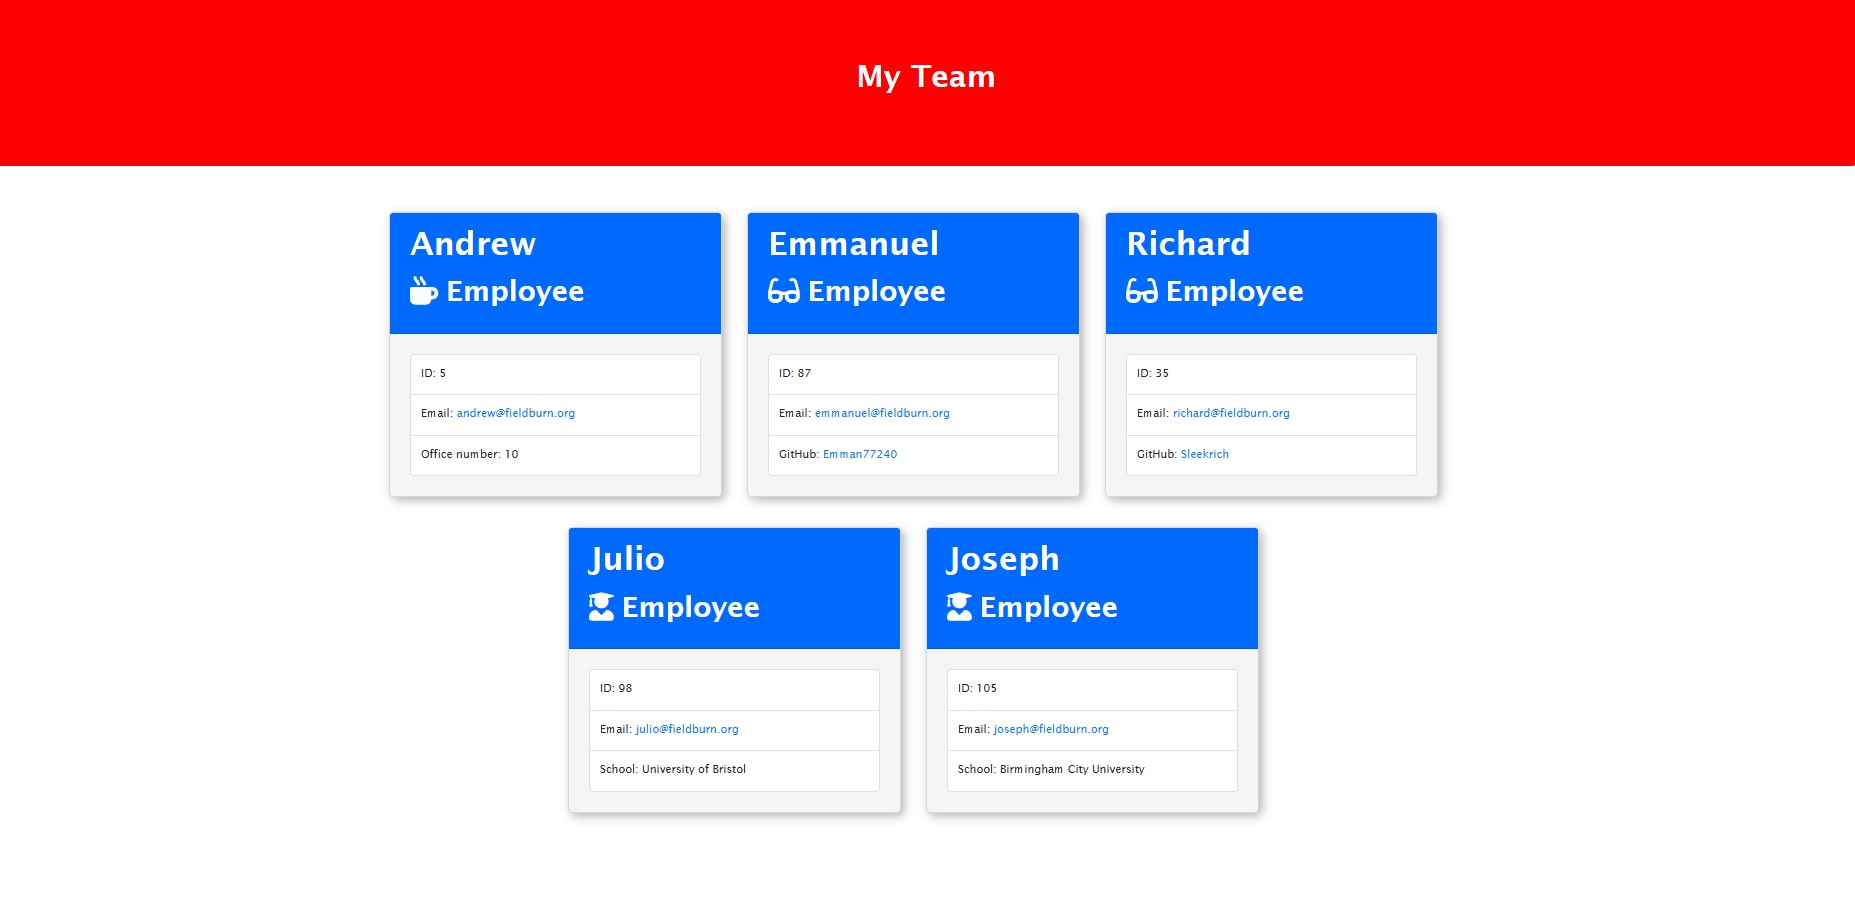
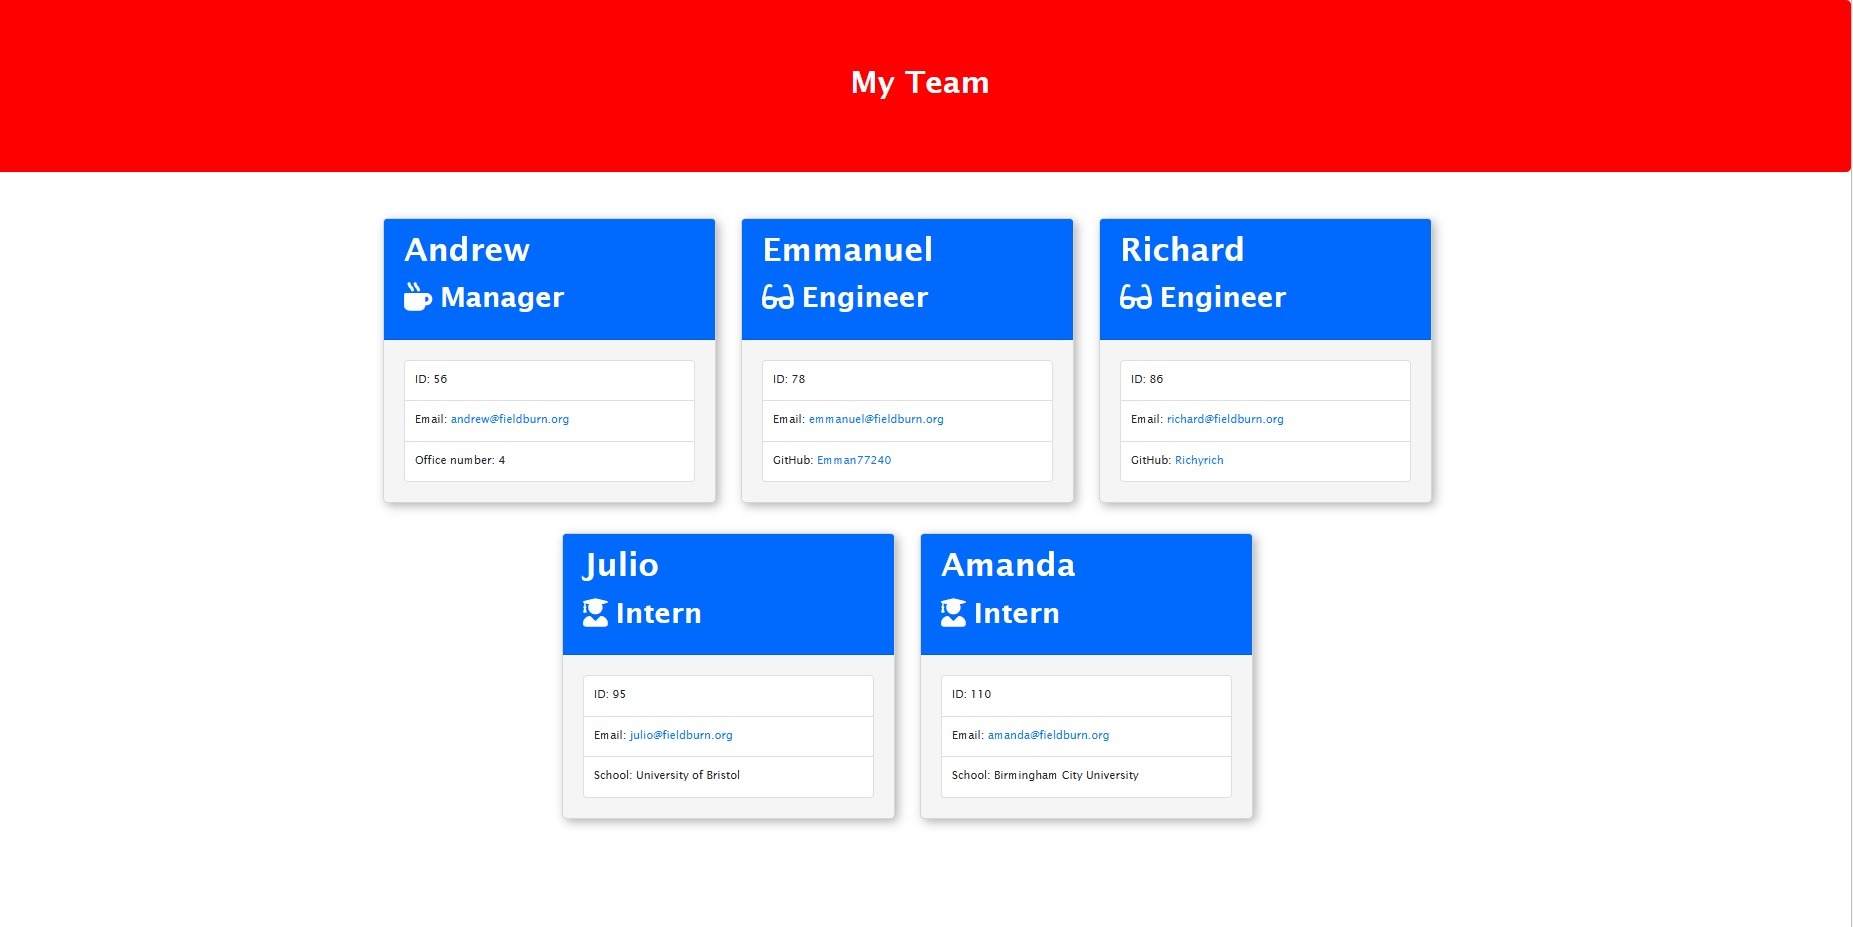
Fixed minor bugs

diff --git a/output/team.html b/output/team.html
@@ -28,13 +28,13 @@
         <div class="card employee-card">
         <div class="card-header">
             <h2 class="card-title">Andrew</h2>
-            <h3 class="card-title"><i class="fas fa-mug-hot mr-2"></i>Employee</h3>
+            <h3 class="card-title"><i class="fas fa-mug-hot mr-2"></i>Manager</h3>
         </div>
         <div class="card-body">
             <ul class="list-group">
-                <li class="list-group-item" id="ID">ID: 5</li>
+                <li class="list-group-item" id="ID">ID: 56</li>
                 <li class="list-group-item" id="body-email">Email: <a href="mailto:andrew@fieldburn.org">andrew@fieldburn.org</a></li>
-                <li class="list-group-item" id="body-info">Office number: 10</li>
+                <li class="list-group-item" id="body-info">Office number: 4</li>
             </ul>
         </div>
     </div>
@@ -42,11 +42,11 @@
         <div class="card employee-card">
     <div class="card-header">
         <h2 class="card-title">Emmanuel</h2>
-        <h3 class="card-title"><i class="fas fa-glasses mr-2"></i>Employee</h3>
+        <h3 class="card-title"><i class="fas fa-glasses mr-2"></i>Engineer</h3>
     </div>
     <div class="card-body">
         <ul class="list-group">
-            <li class="list-group-item" id="ID">ID: 87</li>
+            <li class="list-group-item" id="ID">ID: 78</li>
             <li class="list-group-item" id="body-email">Email: <a href="mailto:emmanuel@fieldburn.org">emmanuel@fieldburn.org</a></li>
             <li class="list-group-item" id="body-info">GitHub: <a href="https://github.com/Emman77240" target="_blank" rel="noopener noreferrer">Emman77240</a></li>
         </ul>
@@ -56,13 +56,13 @@
         <div class="card employee-card">
     <div class="card-header">
         <h2 class="card-title">Richard</h2>
-        <h3 class="card-title"><i class="fas fa-glasses mr-2"></i>Employee</h3>
+        <h3 class="card-title"><i class="fas fa-glasses mr-2"></i>Engineer</h3>
     </div>
     <div class="card-body">
         <ul class="list-group">
-            <li class="list-group-item" id="ID">ID: 35</li>
+            <li class="list-group-item" id="ID">ID: 86</li>
             <li class="list-group-item" id="body-email">Email: <a href="mailto:richard@fieldburn.org">richard@fieldburn.org</a></li>
-            <li class="list-group-item" id="body-info">GitHub: <a href="https://github.com/Sleekrich" target="_blank" rel="noopener noreferrer">Sleekrich</a></li>
+            <li class="list-group-item" id="body-info">GitHub: <a href="https://github.com/Richyrich" target="_blank" rel="noopener noreferrer">Richyrich</a></li>
         </ul>
     </div>
 </div>
@@ -70,11 +70,11 @@
         <div class="card employee-card">
     <div class="card-header">
         <h2 class="card-title">Julio</h2>
-        <h3 class="card-title"><i class="fas fa-user-graduate mr-2"></i>Employee</h3>
+        <h3 class="card-title"><i class="fas fa-user-graduate mr-2"></i>Intern</h3>
     </div>
     <div class="card-body">
         <ul class="list-group">
-            <li class="list-group-item" id="ID">ID: 98</li>
+            <li class="list-group-item" id="ID">ID: 95</li>
             <li class="list-group-item" id="body-email">Email: <a href="mailto:julio@fieldburn.org">julio@fieldburn.org</a></li>
             <li class="list-group-item" id="body-info">School: University of Bristol</li>
         </ul>
@@ -83,13 +83,13 @@
         
         <div class="card employee-card">
     <div class="card-header">
-        <h2 class="card-title">Joseph</h2>
-        <h3 class="card-title"><i class="fas fa-user-graduate mr-2"></i>Employee</h3>
+        <h2 class="card-title">Amanda</h2>
+        <h3 class="card-title"><i class="fas fa-user-graduate mr-2"></i>Intern</h3>
     </div>
     <div class="card-body">
         <ul class="list-group">
-            <li class="list-group-item" id="ID">ID: 105</li>
-            <li class="list-group-item" id="body-email">Email: <a href="mailto:joseph@fieldburn.org">joseph@fieldburn.org</a></li>
+            <li class="list-group-item" id="ID">ID: 110</li>
+            <li class="list-group-item" id="body-email">Email: <a href="mailto:amanda@fieldburn.org">amanda@fieldburn.org</a></li>
             <li class="list-group-item" id="body-info">School: Birmingham City University</li>
         </ul>
     </div>

diff --git a/src/page-template.js b/src/page-template.js
@@ -3,13 +3,13 @@ const generateTeam = team => {
 
     // creates the manager html
     const generateManager = manager => {
-        const { name, id, email, role, officeNumber } = manager.manager;
+        const { name, id, email, officeNumber } = manager.manager;
 
         return `
         <div class="card employee-card">
         <div class="card-header">
             <h2 class="card-title">${name}</h2>
-            <h3 class="card-title"><i class="fas fa-mug-hot mr-2"></i>${role}</h3>
+            <h3 class="card-title"><i class="fas fa-mug-hot mr-2"></i>Manager</h3>
         </div>
         <div class="card-body">
             <ul class="list-group">
@@ -28,7 +28,7 @@ const generateTeam = team => {
         <div class="card employee-card">
     <div class="card-header">
         <h2 class="card-title">${engineer.name}</h2>
-        <h3 class="card-title"><i class="fas fa-glasses mr-2"></i>${engineer.role}</h3>
+        <h3 class="card-title"><i class="fas fa-glasses mr-2"></i>Engineer</h3>
     </div>
     <div class="card-body">
         <ul class="list-group">
@@ -47,7 +47,7 @@ const generateTeam = team => {
         <div class="card employee-card">
     <div class="card-header">
         <h2 class="card-title">${intern.name}</h2>
-        <h3 class="card-title"><i class="fas fa-user-graduate mr-2"></i>${intern.role}</h3>
+        <h3 class="card-title"><i class="fas fa-user-graduate mr-2"></i>Intern</h3>
     </div>
     <div class="card-body">
         <ul class="list-group">
